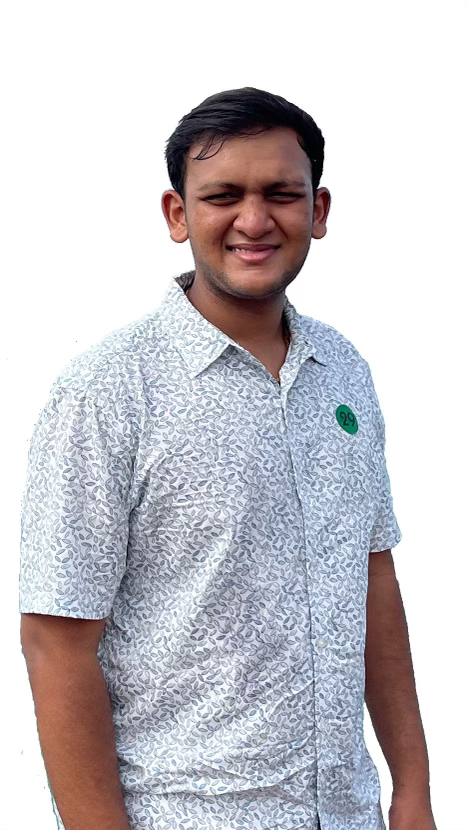
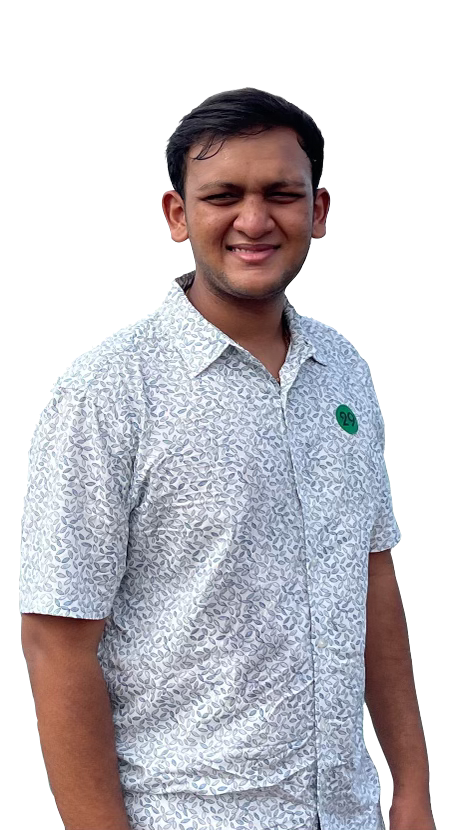
pic changes

diff --git a/index.html b/index.html
@@ -84,7 +84,7 @@
 
                     <div class="home__handle">
                         <!-- <img src="assets/img/perfil.png" alt="" class="home__img"> -->
-                        <img src="assets/img/rajkumar.heic" alt="" class="home__img">
+                        <img src="assets/img/rajkumar.png" alt="" class="home__img">
                     </div>
 
                     <div class="home__social">
@@ -112,8 +112,8 @@
                 <h2 class="section__title">About Me</h2>
 
                 <div class="about__container container grid">
-                    <img src="assets/img/about.jpg" alt="" class="about__img">
-                    <!-- <img src="assets/img/background-1.JPG" alt="" class="about__img"> -->
+                    <!-- <img src="assets/img/about.jpg" alt="" class="about__img"> -->
+                    <img src="assets/img/background-1.JPG" alt="" class="about__img">
 
                     <div class="about__data">
                         <div class="about__info">
